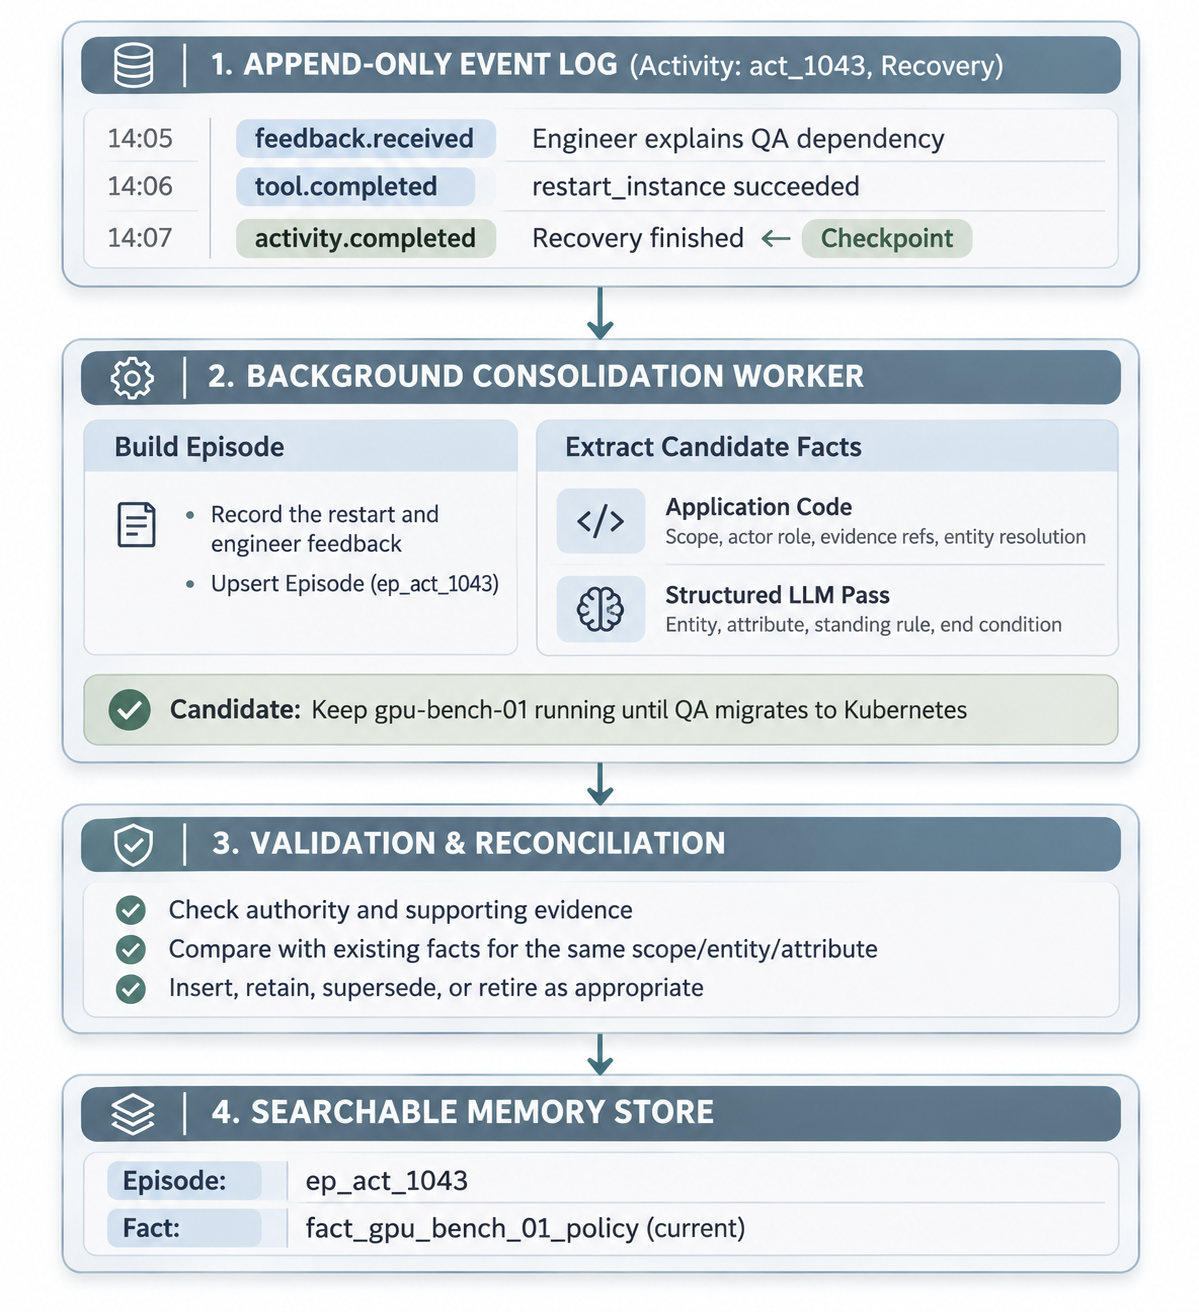
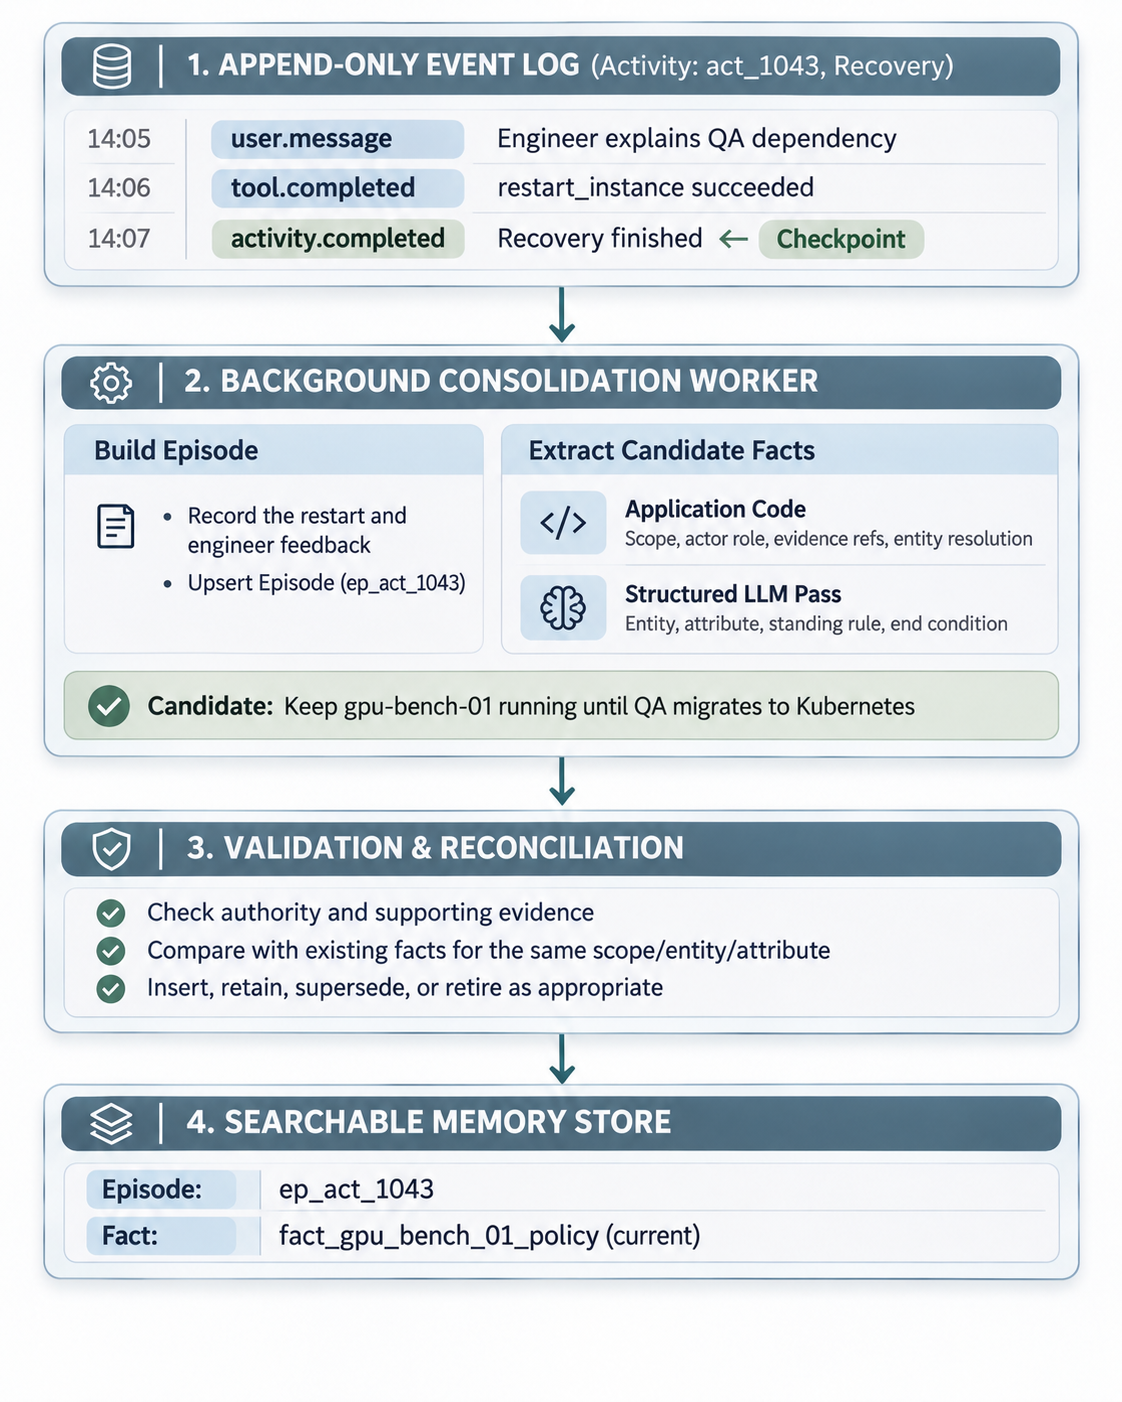
Reliable memory for AI agents

diff --git a/content/posts/2026/11/beyond-conversation-history-reliable-memory-for-ai-agents.md b/content/posts/2026/11/beyond-conversation-history-reliable-memory-for-ai-agents.md
@@ -180,20 +180,20 @@ operation, even when downstream consequences only become clear in a later sessio
 Separating raw runtime events from consolidated episodes gives each record a clear job and a lean, domain-agnostic
 schema.
 
-A **Runtime Event** is a single, point-in-time record written when something happens: a tool completes, a user provides
-feedback, or an activity finishes. Events are append-only and fast to write. We don't inject raw events straight into
+A **Runtime Event** is a single, point-in-time record written when something happens: a tool completes, a user sends a
+message, or an activity finishes. Events are append-only and fast to write. We don't inject raw events straight into
 future prompts because a single task might generate dozens of intermediate observations and retries.
 
 | Field | Purpose |
 | --- | --- |
 | `event_id`, `timestamp` | Identify the event and when it happened |
 | `activity_id` | Groups events belonging to the same activity or execution attempt |
-| `event_type` | What happened, such as `tool.completed`, `activity.completed`, or `feedback.received` |
+| `event_type` | What happened, such as `tool.completed`, `activity.completed`, or `user.message` |
 | `scope` | Tenant, workspace, or other access boundary |
 | `entities` | Stable identifiers of resources or records involved |
 | `actor` | Agent, user, or component responsible for the event |
 | `evidence_ref` | Reference to the original trace, message, or tool result |
-| `data` | Event-specific payload, such as tool arguments, results, or user feedback |
+| `data` | Event-specific payload, such as tool arguments, results, or the user's message |
 
 An **Episode** is a compact, searchable record of a meaningful experience. Built from related events, it captures what
 happened, the observed execution status, and how the activity was resolved, if known.
@@ -218,7 +218,7 @@ evidence when more detail is needed.
 
 Because the background processor waits for checkpoints rather than summarizing every event as it arrives, it can
 evaluate an operation as a whole. A completed activity is an obvious checkpoint; others include a failed operation,
-explicit user feedback, or a long-running task reaching an intermediate milestone. An unfinished debugging session, for
+a user correction, or a long-running task reaching an intermediate milestone. An unfinished debugging session, for
 example, may still contain useful context even without a final outcome.
 
 A checkpoint triggers evaluation, but doesn't guarantee that a new episode will be created. Routine read-only checks can
@@ -239,7 +239,7 @@ As the agent inspects and stops the instance, the runtime captures three events 
 
 ```java
 # CostGuard inspects gpu-bench-01
-publish_runtime_event(
+publish_event(
     activity_id="act_1042",
     event_type="tool.completed",
     entities=["cloud-instance:i-09a8f"],
@@ -253,7 +253,7 @@ publish_runtime_event(
 )
 
 # CostGuard stops the instance
-publish_runtime_event(
+publish_event(
     activity_id="act_1042",
     event_type="tool.completed",
     entities=["cloud-instance:i-09a8f"],
@@ -262,7 +262,7 @@ publish_runtime_event(
 )
 
 # Resource cleanup finishes, triggering a checkpoint
-publish_runtime_event(
+publish_event(
     activity_id="act_1042",
     event_type="activity.completed",
     entities=["cloud-instance:i-09a8f"],
@@ -379,53 +379,9 @@ Fact extraction runs in the same background consolidation worker that builds epi
 reaches a checkpoint, the worker records the recovery episode and inspects the engineer's feedback for standing rules
 worth carrying into future sessions.
 
-[//]: # (![Consolidating Events]&#40;/images/beyond-conversation-history-reliable-memory-for-ai-agents/s4_extarcting_rules_and_episodes.png&#41;)
-```text
-+------------------------------------------------------------------------+
-| 1. APPEND-ONLY EVENT LOG (Activity: act_1043, Recovery)                |
-|                                                                        |
-|  - feedback.received   Engineer explains QA dependency                 |
-|  - tool.completed      restart_instance succeeded                      |
-|  - activity.completed  Recovery finished <-- Checkpoint                |
-+------------------------------------------------------------------------+
-                                    |
-                                    v
-+------------------------------------------------------------------------+
-| 2. BACKGROUND CONSOLIDATION WORKER                                     |
-|                                                                        |
-|  Build Episode                                                         |
-|    - Record the restart and engineer feedback                          |
-|    - Upsert Episode (ep_act_1043)                                      |
-|                                                                        |
-|  Extract Candidate Facts                                               |
-|    +-- Application Code                                                |
-|    |     Scope, actor role, evidence refs, entity resolution           |
-|    |                                                                   |
-|    +-- Structured LLM Pass                                             |
-|          Entity, attribute, standing rule, end condition               |
-|                                                                        |
-|  Candidate: Keep gpu-bench-01 running until QA migrates to Kubernetes  |
-+------------------------------------------------------------------------+
-                                    |
-                                    v
-+------------------------------------------------------------------------+
-| 3. VALIDATION & RECONCILIATION                                         |
-|                                                                        |
-|  - Check authority and supporting evidence                             |
-|  - Compare with existing facts for the same scope/entity/attribute     |
-|  - Insert, retain, supersede, or retire as appropriate                 |
-+------------------------------------------------------------------------+
-                                    |
-                                    v
-+------------------------------------------------------------------------+
-| 4. SEARCHABLE MEMORY STORE                                             |
-|                                                                        |
-|  Episode: ep_act_1043                                                  |
-|  Fact:    fact_gpu_bench_01_policy (current)                           |
-+------------------------------------------------------------------------+
-```
+![Consolidating Events](/images/beyond-conversation-history-reliable-memory-for-ai-agents/s4_extarcting_rules_and_episodes.png)
 
-In this example, the engineer's feedback is the source of the new rule. Other agents might extract reusable knowledge
+In this example, the engineer's message is the source of the new fact. Other agents might extract reusable knowledge
 from tool results, task outcomes, or external observations. The extraction process follows the same pattern:
 
 ```python
@@ -434,41 +390,37 @@ class ExtractedRule(BaseModel):
     attribute: str
     value: str
     ends_when: str | None = None
+    event_ids: list[str]  # events this fact is based on
 
-
-class CandidateRules(BaseModel):
-    rules: list[ExtractedRule]
+class CandidateFacts(BaseModel):
+    rules: list[ExtractedFact]
 
 
 def extract_candidate_facts(events, episode):
+    extracted = llm.extract_structured(
+        schema=CandidateFacts,
+        context={
+            "events": select(events),
+            "known_entities": episode["entities"],
+        },
+    )
+    
     candidates = []
-
-    for event in events:
-        if event.event_type != "feedback.received":
+    for fact in extracted.facts:
+        cited = [e for e in events if e.event_id in fact.event_ids]
+        entity = resolve_entity(fact.entity, episode["entities"])
+        if not cited or entity is None or not grounded_in_events(fact, cited):
             continue
 
-        extracted = llm.extract_structured(
-            schema=CandidateRules,
-            context={
-                "feedback": event.data,
-                "known_entities": episode["entities"],
-            },
-        )
-
-        for rule in extracted.rules:
-            entity = resolve_entity(rule.entity, episode["entities"])
-            if entity is None or not grounded_in_feedback(rule, event.data):
-                continue
-
-            candidates.append({
-                "scope": episode["scope"],
-                "entity": entity,
-                "attribute": normalize_attribute(rule.attribute),
-                "value": rule.value,
-                "ends_when": rule.ends_when,
-                "authority_role": event.actor["role"],
-                "source": event.evidence_ref,
-            })
+        candidates.append({
+            "scope": episode["scope"],
+            "entity": entity,
+            "attribute": normalize_attribute(fact.attribute),
+            "value": fact.value,
+            "ends_when": fact.ends_when,
+            "authority_role": lowest_authority(cited),
+            "source": [e.evidence_ref for e in cited],
+        })
 
     return candidates
 ```
@@ -501,66 +453,46 @@ out the instruction that matters.
 
 ### Reconciling New Information Against Active Rules
 
-Before accepting a new candidate fact, the consolidation worker searches for existing `current` facts matching the same
-scope, canonical entity identifier, and attribute. It also separates transient observations from genuine policy updates:
+Before accepting a new candidate fact, the consolidation worker looks for a `current` fact with the same scope, canonical
+entity identifier, and attribute. With none, an authorized statement becomes `current` and an unauthorized claim is
+recorded as `unverified`. With one, the worker compares the incoming signal against it:
 
 ```text
-                +-----------------------------------------+
-                |  Incoming Observation / Candidate Rule  |
-                +--------------------+--------------------+
-                                     |
-                                     v
-                +-----------------------------------------+
-                |  Lookup Active Fact in Store            |
-                |  Key: (scope, entity, attribute)        |
-                +--------------------+--------------------+
-                                     |
-              +----------------------+----------------------+
-              | No active fact                              | Active fact exists
-              v                                             v
-+-------------------------------+     +---------------------------------------------------+
-| Is it an authorized rule?     |     | Compare Incoming Signal Against Active Fact       |
-|                               |     +---------------------------------------------------+
-|  YES -> INSERT as [current]   |     |                                                   |
-|  NO  -> Keep in event log     |     |  1. Repeats same rule                             |
-|         or flag as unverified |     |     -> Keep [current]; link new evidence          |
-+-------------------------------+     |                                                   |
-                                      |  2. Compatible telemetry (48h at 0% CPU)          |
-                                      |     -> Ignore; leave [current] rule untouched     |
-                                      |                                                   |
-                                      |  3. Unverified contradiction (dev chat comment)   |
-                                      |     -> Keep [current] rule; flag claim for review |
-                                      |                                                   |
-                                      |  4. Authorized change (infra_lead updates policy) |
-                                      |     -> Mark old [superseded]; INSERT new [current]|
-                                      |                                                   |
-                                      |  5. End condition met (K8s migration verified)    |
-                                      |     -> Mark old rule [retired]                    |
-                                      +---------------------------------------------------+
+                            +- Same rule restated        -> [current]
+                            |  "Yes, keep it running"       + new evidence linked
+                            |
+                            +- Idle metrics, 48h at 0%   -> [current]
++-----------------------+   |  (telemetry, not a rule)      nothing stored
+| ACTIVE FACT [current] |   |
+| Keep gpu-bench-01     |---+- Unauthorized claim        -> [current]
+| running until QA      |   |  "Probably shut it down"      claim kept as [unverified]
+| migrates to K8s       |   |
++-----------------------+   +- Authorized change         -> [superseded]
+                            |  "Keep it through next week"  new fact is [current]
+                            |
+                            +- End condition verified    -> [retired]
+                               "K8s migration confirmed"    restriction removed
+
+No active fact:  authorized -> [current]  |  not authorized -> [unverified]
 ```
 
-When new evidence repeats an existing rule, the worker links the supporting reference without creating a duplicate. An
-observation that is merely compatible with the rule, such as the 48-hour idle metrics, doesn't change anything in
-semantic memory, since raw telemetry already lives in the event log and cloud APIs. And when an unverified comment contradicts
-an active policy, the worker preserves the standing restriction and flags the claim for review rather than letting
-casual chatter override an authorized instruction.
+The first three branches leave the standing rule untouched. A restatement just adds its evidence to the existing fact.
+Idle metrics are ignored: they describe the instance's state rather than a rule, and the event log and cloud APIs already
+hold that data. An unauthorized comment like "Probably shut it down" is recorded as `unverified`, so casual chat can't
+silently override an approved restriction.
 
-An explicit instruction from an authorized operator is different. Suppose the infrastructure lead says, "QA has changed
-its plans. Keep the instance reserved through next week's final benchmark instead of waiting for the Kubernetes
-migration." The lead may be authorized to replace the policy even though the original migration condition hasn't been
-satisfied. The previous fact is marked as superseded, and the replacement becomes current, retaining its own source and
-supporting evidence. Keeping the older version makes it possible to understand why the policy changed.
+The other two branches change the policy and need an authoritative source. Suppose the infrastructure lead says, "QA has
+changed its plans. Keep the instance reserved through next week's final benchmark instead of waiting for the Kubernetes
+migration." The lead can modify lifecycle rules, so the old fact becomes `superseded` and the new one becomes `current`
+with its own source, even though the original migration condition wasn't met.
 
-A rule can also end because its stated condition has been met. The condition itself isn't self-verifying: the runtime
-needs trustworthy evidence, such as confirmation from an authorized operator or an authoritative system, before retiring
-the exemption. And retiring it doesn't mean the instance must be stopped; it removes that particular restriction.
-The agent's normal cleanup policy still determines what happens next.
+A rule also ends when its `ends_when` condition is met, but conditions aren't self-verifying. The runtime waits for
+confirmation from an authorized operator or an authoritative system before marking the fact `retired`. That lifts the
+exemption without forcing a shutdown: the standard cleanup policy applies again. Superseded and retired facts stay in the
+store as an audit trail but are excluded from active retrieval.
 
-In both cases, the previous knowledge remains available as history but no longer participates in retrieval as an active
-constraint.
-
-In the original midweek scenario, neither the idle metrics nor the developer's comment justifies changing the
-restriction. The active semantic fact therefore remains unchanged:
+In the midweek scenario, neither the idle metrics nor the developer's comment has the authority to change the policy, so
+the active semantic fact remains unchanged:
 
 ```json
 {
@@ -574,7 +506,7 @@ restriction. The active semantic fact therefore remains unchanged:
   "ends_when": "QA regression suite migrated to shared Kubernetes cluster",
   "status": "current",
   "authority_role": "infra_lead",
-  "source": "trace://act_1043/feedback"
+  "source": "trace://act_1043/message"
 }
 ```
 
@@ -630,19 +562,19 @@ TURN 2: Enriched Recall (Entity-Driven)
   +-- Agent Action  : Stops dev-sandbox-04; leaves gpu-bench-01 running
 ```
 
-Here is how the runtime updates `turn_context` after each tool execution so the next turn can query against newly
+Here is how the runtime updates `context` after each tool execution so the next turn can query against newly
 discovered resources:
 
 ```python
-def update_turn_context(turn_context, action, tool_result):
+def update_context(context, action, tool_result):
     # 1. Keep the live tool observation for the current prompt window
-    turn_context.live_observations.append(tool_result.summary)
+    context.live_observations.append(tool_result.summary)
 
     # 2. Extract entity ids from structured tool args/outputs (e.g. resource ids, service names)
     discovered_ids = extract_entity_ids(action.args, tool_result.structured_data)
     for entity_id in discovered_ids:
-        if entity_id not in turn_context.active_entities:
-            turn_context.active_entities.append(entity_id)
+        if entity_id not in context.active_entities:
+            context.active_entities.append(entity_id)
 ```
 
 ### Why Vector Search Alone Isn't Enough: 3-Way Hybrid Retrieval
@@ -788,11 +720,11 @@ When building the prompt view for a turn, the runtime pulls from three sources:
 1. **Live Observations:** Outputs from tools executed during the current session, such as CPU utilization or resource
    status.
 2. **Retrieved Long-Term Memories:** The ranked semantic facts, past episodes, and procedures returned by `recall()`.
-3. **Recent Session Context:** Messages, feedback, and other events from the active session that haven't yet been
+3. **Recent Session Context:** User messages and other events from the active session that haven't yet been
    consolidated into long-term memory.
 
 Recent session context bridges the delay introduced by asynchronous consolidation. If a user corrects the agent and
-immediately continues the conversation, that feedback can influence the next decision without waiting for a semantic
+immediately continues the conversation, that message can influence the next decision without waiting for a semantic
 fact to be extracted. This covers continuity within the active session; a new session started before consolidation
 finishes may still miss the correction. For critical updates, the runtime may need to read recent events directly or
 persist the constraint synchronously.
@@ -800,7 +732,7 @@ persist the constraint synchronously.
 ```text
 +------------------------+  +--------------------------+  +-------------------------+
 | Live Turn Observations |  | Recent Session Context   |  | Recalled Store Memories |
-| (Current tool outputs) |  | (Messages & feedback)    |  | (Facts, Procedures,     |
+| (Current tool outputs) |  | (User messages)          |  | (Facts, Procedures,     |
 +------------------------+  +--------------------------+  |  Past Episodes)         |
             |                            |                +-------------------------+
             +----------------------------+-----------------------------+
@@ -868,13 +800,13 @@ ACTIVE SEMANTIC CONSTRAINTS (Retrieved Data)
     Keep running for Friday-night QA regression benchmarks.
     Ends when: QA migrates its suite to the shared Kubernetes cluster.
     Status: current | Authority: infra_lead
-    Source: trace://act_1043/feedback
+    Source: trace://act_1043/message
 
 RELEVANT PAST EPISODES (Retrieved Data)
   - [ep_act_1043 | completed]
     Restarted gpu-bench-01 after the engineer reported that
     the earlier shutdown broke QA's regression suite.
-    Source: trace://act_1043/feedback
+    Source: trace://act_1043/message
 
   - [ep_act_1042 | completed]
     Stopped gpu-bench-01 after observing 0.2% average CPU
